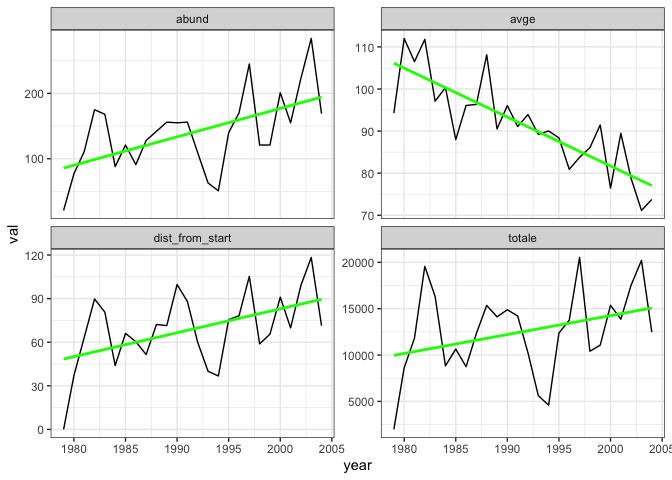
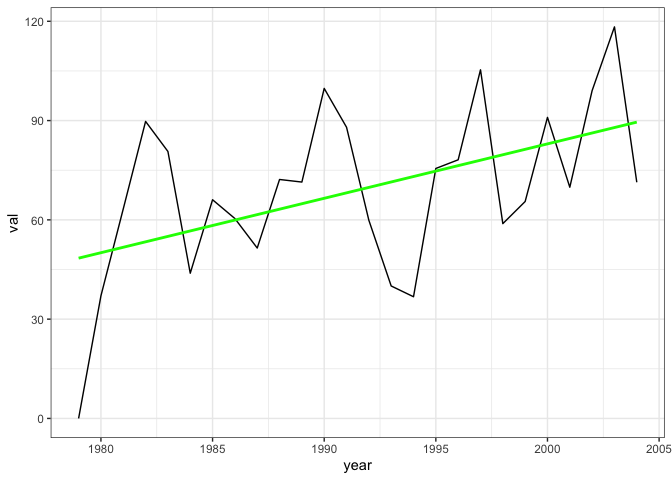
add lm coefficients, not sure if statistically sound

diff --git a/toy-rats.md b/toy-rats.md
@@ -15,7 +15,9 @@ rats <- all_rats %>%
   group_by(year) %>%
   summarize(abund = dplyr::n(),
             totale = sum(er),
-            avge = totale/abund) %>%
+            avge = totale/abund,
+            richness = length(unique(species)),
+            avgwgt = mean(wgt)) %>%
   ungroup() %>%
   tidyr::gather(-year, key = "variable", value = "val")
 
@@ -27,6 +29,33 @@ ggplot(data = rats, aes(x = year, y = val)) +
 ```
 
 ![](toy-rats_files/figure-markdown_github/get%20some%20rats-1.png)
+
+``` r
+lm_results <- lapply(as.list(unique(rats$variable)), FUN = function(var_name, rat_data) return(lm(val ~ year, data = filter(rat_data, variable == var_name))), rat_data = rats)
+
+names(lm_results) <- unique(rats$variable)
+
+for(i in 1:length(lm_results)) {
+  print(names(lm_results)[i])
+  print(lm_results[[i]]$coefficients[2])
+}
+```
+
+    ## [1] "abund"
+    ##     year 
+    ## 4.341538 
+    ## [1] "totale"
+    ##     year 
+    ## 204.1938 
+    ## [1] "avge"
+    ##      year 
+    ## -1.162985 
+    ## [1] "richness"
+    ##       year 
+    ## 0.04752137 
+    ## [1] "avgwgt"
+    ##       year 
+    ## -0.7734788
 
 ``` r
 ar_spectra <- all_rats %>%
@@ -92,17 +121,10 @@ dist_from_start <- data.frame(
   variable = as.character("dist_from_start")
 )
 
-rats <- bind_rows(rats, dist_from_start)
-```
 
-    ## Warning in bind_rows_(x, .id): binding character and factor vector, coercing
-    ## into character vector
-
-``` r
-ggplot(data = rats, aes(x = year, y = val)) +
+ggplot(data = dist_from_start, aes(x = year, y = val)) +
   geom_line() +
   theme_bw() +
-  facet_wrap(vars(variable), scales = "free_y") +
   geom_smooth(method = "lm", se = F, color = "green")
 ```
 
